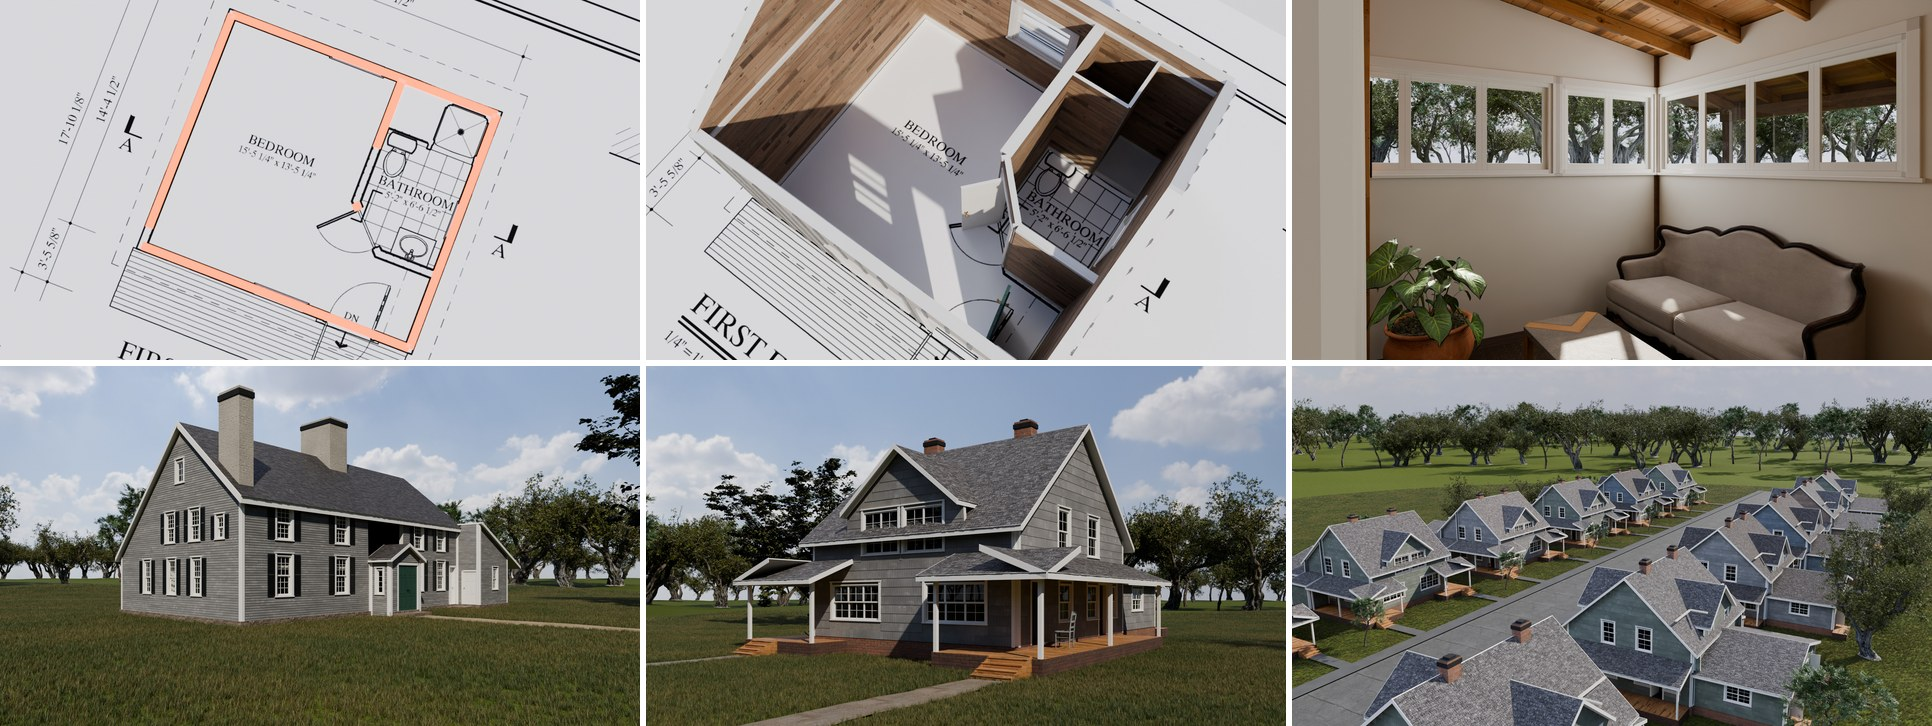
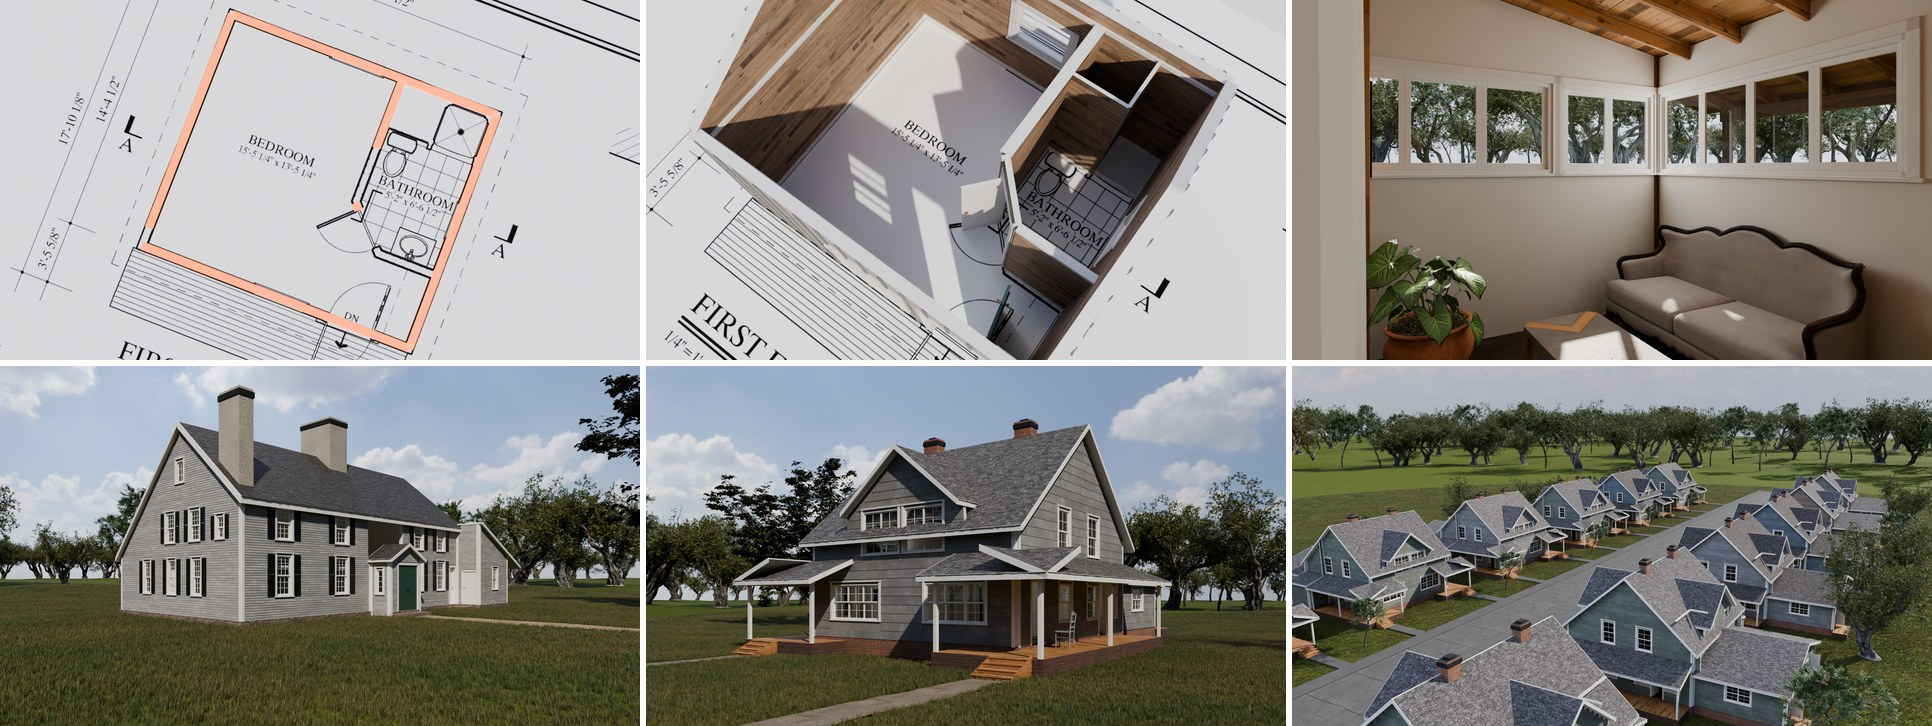
Light rooms behind exterior glass, slab street kerbs and brighten white siding; release 0.1.1

Changed region(s): [[0.0621, 0.6061, 0.2795, 0.8485], [0.4348, 0.7879, 0.5901, 0.8788], [0.4348, 0.697, 0.4969, 0.7576]]

diff --git a/plugins/build-house-from-plan/skills/build-house-from-plan/scripts/build_street.py b/plugins/build-house-from-plan/skills/build-house-from-plan/scripts/build_street.py
@@ -93,13 +93,15 @@ def lot_footprints(plan_slabs, lot):
     return outlines
 
 
+SLAB_DEPTH = 1.5
+
+
 def build_strips(street, collection):
-    """Road, pavements and drives: flat polygons just above the ground."""
+    """Road, pavements and drives as slabs, so a kerb has a face and no gap shows black beside the road."""
     batch = MeshBatch("street_surfaces", 71)
     for surface in street.get("surfaces", []):
         height = surface.get("z", 0.0)
-        points = [Vector((point[0], point[1], height)) for point in surface["poly"]]
-        batch.add_face(points, surface["material"], uvs=[(point[0], point[1]) for point in surface["poly"]])
+        batch.add_prism(surface["poly"], height - SLAB_DEPTH, height, surface["material"])
     batch.finish(collection)
 
 

diff --git a/plugins/build-house-from-plan/skills/build-house-from-plan/scripts/house_core.py b/plugins/build-house-from-plan/skills/build-house-from-plan/scripts/house_core.py
@@ -13,7 +13,7 @@ LIBRARY = pathlib.Path(os.environ.get("HOUSE_ASSET_LIBRARY", pathlib.Path.home()
 
 # name: (Poly Haven or ambientCG folder, metres per tile, tint, desaturate, bump strength, roughness scale)
 TEXTURED_MATERIALS = {
-    "siding_white": ("distressed_painted_planks", 1.6, (0.92, 0.90, 0.85), 1.0, 0.25, 0.9),
+    "siding_white": ("distressed_painted_planks", 1.6, (1.45, 1.42, 1.34), 1.0, 0.25, 0.9),
     "board_redwood": ("oak_wood_planks", 2.0, (0.62, 0.47, 0.35), 0.65, 0.6, 1.0),
     "grass_path": ("grass_path_2", 3.0, (0.8, 0.76, 0.7), 0.0, 1.0, 1.0),
     "shingle_wood": ("weathered_planks", 2.0, (0.62, 0.60, 0.56), 0.75, 0.8, 1.0),

diff --git a/plugins/build-house-from-plan/skills/build-house-from-plan/scripts/render_house.py b/plugins/build-house-from-plan/skills/build-house-from-plan/scripts/render_house.py
@@ -663,7 +663,8 @@ def main():
             continue
         kind = shot.get("kind", "exterior")
         for portal in portals:
-            portal.hide_render = kind != "interior"
+            # Outside too: a dark room behind the glass or an open door reads as a black hole in the wall.
+            portal.hide_render = False
         if shot.get("cut") and shot["cut"] != cut_applied:
             apply_cut(plan["levels"].get("floor", 0.0) * scale + shot["cut"] * scale, plan)
             cut_applied = shot["cut"]

diff --git a/plugins/build-house-from-plan/skills/build-house-from-plan/references/realism-faults.md b/plugins/build-house-from-plan/skills/build-house-from-plan/references/realism-faults.md
@@ -49,6 +49,9 @@ Each entry was seen on a real render from this pipeline. Read the group you are 
   127 s and looks the same.
 - **Empty strip at the horizon.** The ground ends in clean sky. Add a treeline of 110 or more trees, set `ground_size`
   well past it. Use a list of rings when one ring leaves gaps.
+- **Black seam along a kerb.** Road and pavement were flat faces at different heights. Build them as slabs.
+- **Doorway or window a black hole from outside.** The room behind it had no light. Keep the window lamps on for exteriors.
+- **White siding renders grey.** The scan is dark before any tint. A tint above 1.0 is fine, check it beside a photo.
 - **Disc edge in a high aerial.** The ground has an end. Keep the camera low enough that the treeline hides it.
 - **Pines and firs.** The scanned pine takes many minutes to import. Use broadleaf trees unless the place demands them.
 - **House floating or sunk.** Set `site.ground_level` from the drawing's steps, and let the plinth show.
